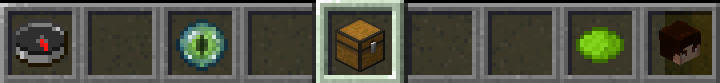
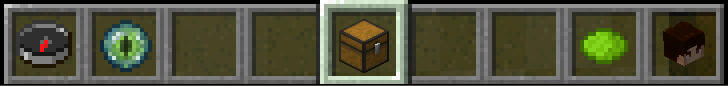
Adjust hotbar slot and update images

diff --git a/Howtoplay.html b/Howtoplay.html
@@ -824,7 +824,7 @@
                     <div class="onevsone-hotbar-click" style="left: 0%;" data-index="0">
                         <div class="onevsone-tooltip">🧭 <b>Teleporter</b><br><span>Select your preferred game mode – PvP, Bedwars, Skywars and more.</span></div>
                     </div>
-                    <div class="onevsone-hotbar-click" style="left: 22.2%;" data-index="2">
+                    <div class="onevsone-hotbar-click" style="left: 11.8%;" data-index="2">
                         <div class="onevsone-tooltip">👁 <b>Options</b><br><span>Toggle lobby-specific features like DoubleJump <br> or Fly on/off</span></div>
                     </div>
                     <div class="onevsone-hotbar-click" style="left: 44.4%;" data-index="4">
